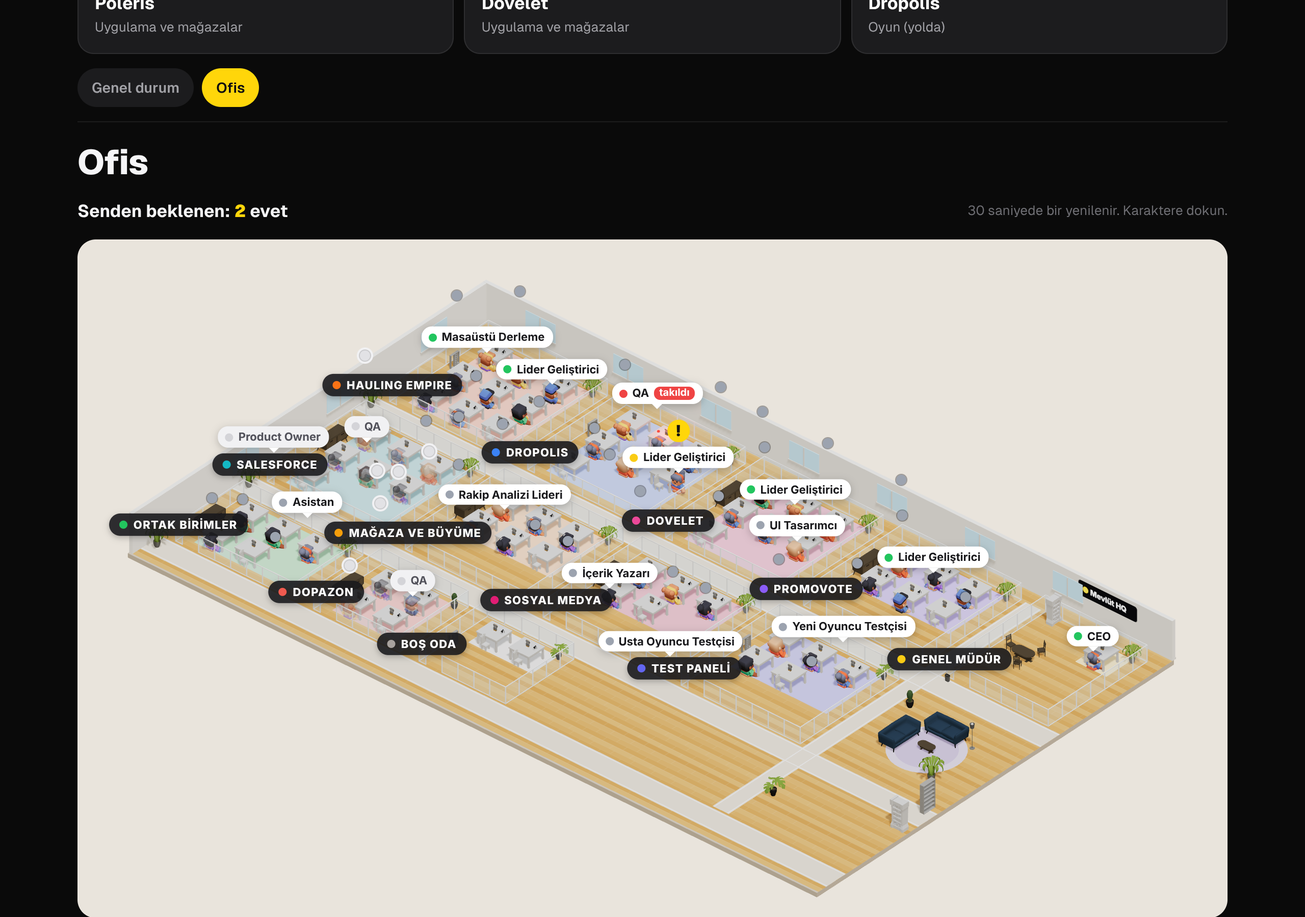
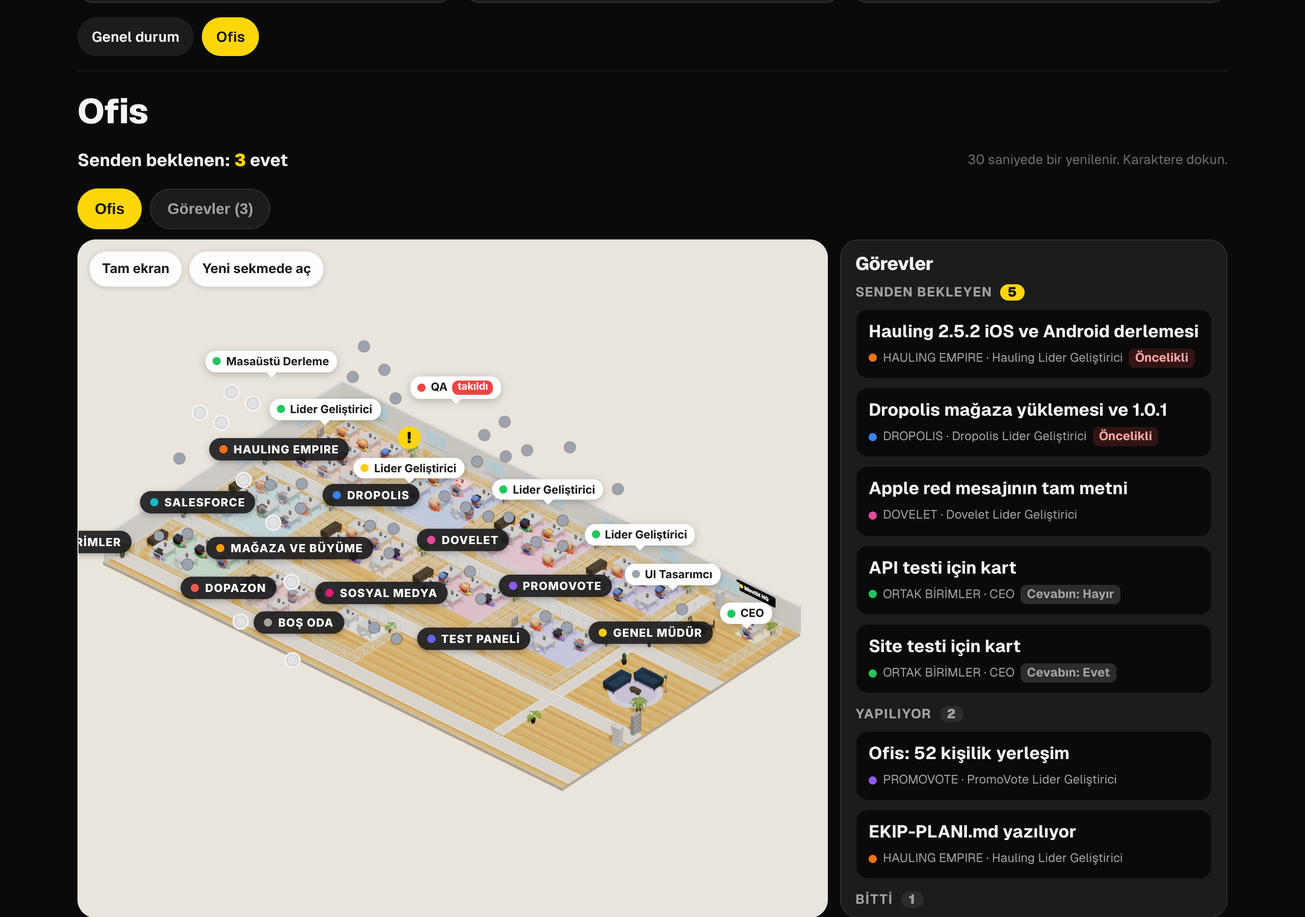
Admin Ofis: full screen button and the /admin/office/full page, drag to pan
Tam ekran on the stage (Fullscreen API with a cover-the-window fallback, Esc or Kapat to leave), Yeni
sekmede aç link to /admin/office/full (only the office and the task board side panel, whole window),
drag pans, wheel and pinch zoom toward the pointer, more names on big stages. Tests and a 1920x1080
screenshot. Not deployed.

Claude-Session: https://claude.ai/code/session_016Jsgeai3nmEVrWzNSNYGkb

diff --git a/web/landing/src/index.js b/web/landing/src/index.js
@@ -287,7 +287,7 @@ async function dropolisPage(env) {
     + sec("En sık olaylar (7 gün)") + evTable;
 }
 
-function adminPage(path, title, body) {
+function adminPage(path, title, body, opts = {}) {
   const group = ADMIN_GROUPS.find(([, , items]) => items.some(([h]) => h === path));
   const page = group?.[2].find(([h]) => h === path);
   const groupsHtml = ADMIN_GROUPS.map(([name, sub, items]) => {
@@ -331,8 +331,8 @@ td a{color:#b394ff}.dim{color:var(--dim)}.center{text-align:center}.role{padding
 .rv-reject label{display:grid;gap:6px;font-size:14px;color:var(--muted)}.rv-reject select,.rv-reject textarea{padding:10px 12px;border-radius:10px;border:1px solid var(--line);background:var(--surface-2);color:#fff;font:inherit}
 .rv-reject .rv-check{display:flex;align-items:center;gap:8px}@media (max-width:700px){.rv-grid{grid-template-columns:1fr}.rv-video{max-height:70dvh}}
 .empty{padding:28px;border:1px dashed var(--line);border-radius:16px;color:var(--muted);line-height:1.6}
-</style></head><body><main class="wrap admin">
-${nav}
+</style></head><body${opts.bare ? ' class="of-bare"' : ""}><main class="${opts.bare ? "of-fullpage" : "wrap admin"}">
+${opts.bare ? "" : nav}
 ${body}
 </main><script src="/v-ignore.js"></script><script src="/admin-table.js?v=2" defer></script></body></html>`;
   return new Response(html, { headers: { "Content-Type": "text/html; charset=utf-8", ...ADMIN_HEADERS } });
@@ -1169,7 +1169,7 @@ const nyTime = (iso) => {
   if (isNaN(d)) return "-";
   return new Intl.DateTimeFormat("tr-TR", { timeZone: "America/New_York", day: "numeric", month: "short", hour: "2-digit", minute: "2-digit" }).format(d) + " (New York)";
 };
-async function officePage(env) {
+async function officePage(env, full = false) {
   const r = await officeAgents(env);
   // With the task board, "Senden beklenen" counts the cards that wait for the owner's answer.
   const waiting = r.tasks ? r.tasks.filter((t) => t.status === "waiting_owner" && !t.owner_answer).length : r.agents.filter((a) => a.status === "waiting_owner" || a.needs_owner).length;
@@ -1213,6 +1213,19 @@ ${a.last_action ? `<p style="margin:0 0 6px">${esc(a.last_action)}</p>` : ""}${a
 .of-need{margin:0 0 6px;padding:8px 10px;border-radius:10px;background:rgba(255,214,10,.1);color:#ffe066}
 .chip-n{background:var(--surface-2);color:var(--muted)}
 .of-main{display:grid;gap:12px;grid-template-columns:minmax(0,1fr)}
+.of-tools{position:absolute;top:10px;left:10px;z-index:4;display:flex;gap:6px;flex-wrap:wrap}
+.of-tool{display:inline-flex;align-items:center;min-height:36px;padding:0 12px;border-radius:999px;border:1px solid rgba(0,0,0,.12);background:rgba(255,255,255,.92);color:#18181b;font:700 13px system-ui,sans-serif;text-decoration:none;cursor:pointer;box-shadow:0 1px 4px rgba(0,0,0,.15)}
+.of-tool:hover,.of-tool:focus-visible{background:#fff;outline:2px solid #ffd60a}.of-tool[hidden]{display:none}
+.of-stage.of-max{position:fixed!important;inset:0;z-index:60;height:100dvh!important;min-height:0;border-radius:0;border:0}
+.of-stage:fullscreen{height:100%!important;border-radius:0;border:0}
+body.of-bare{margin:0;overflow:hidden}.of-fullpage{padding:0;margin:0;max-width:none}
+.of-fullpage>.top,.of-fullpage>.of-tabs,.of-fullpage>.of-note,.of-fullpage>.of-note-msg,.of-fullpage>.of-legend,.of-fullpage>.of-list{display:none!important}
+.of-fullpage>.of-top{position:fixed;top:10px;left:50%;transform:translateX(-50%);z-index:5;margin:0;padding:6px 14px;border-radius:999px;background:rgba(16,16,20,.9);border:1px solid var(--line)}.of-fullpage>.of-top .dim{display:none}
+.of-main.full{position:fixed;inset:0;gap:0;grid-template-columns:minmax(0,1fr) 380px}
+.of-main.full.closed{grid-template-columns:minmax(0,1fr) 0}.of-main.full.closed .of-board{display:none}
+.of-main.full .of-stage{height:100dvh;max-height:none;border-radius:0;border:0}
+.of-main.full .of-board{max-height:100dvh;height:100dvh;border-radius:0;border-width:0 0 0 1px}
+@media (max-width:999px){.of-main.full{grid-template-columns:minmax(0,1fr)}.of-main.full .of-board{position:fixed;top:0;right:0;bottom:0;width:min(380px,100%);z-index:6}.of-main.full .of-stage{display:block!important}.of-main.full:not(.board) .of-board{display:block}.of-main.full.closed .of-board{display:none}}
 @media (min-width:1000px){.of-main{grid-template-columns:minmax(0,1fr) 380px}.of-tabs{display:none}}
 .of-tabs{display:flex;gap:8px;margin:0 0 10px}.of-tabs button{min-height:40px;padding:0 16px;border-radius:999px;border:1px solid var(--line);background:var(--surface);color:var(--muted);font-weight:700;font-size:15px;cursor:pointer}.of-tabs button[aria-selected="true"]{background:var(--lime);color:#111;border-color:transparent}
 @media (max-width:999px){.of-main.board .of-stage{display:none!important}.of-main:not(.board) .of-board{display:none}}
@@ -1244,8 +1257,10 @@ ${a.last_action ? `<p style="margin:0 0 6px">${esc(a.last_action)}</p>` : ""}${a
 <div class="top"><h1>Ofis</h1></div>
 <div class="of-top"><p class="of-ask" id="of-ask" aria-live="polite">Senden beklenen: <b>${waiting}</b> evet</p><p class="dim" style="margin:0;font-size:13px">30 saniyede bir yenilenir. Karaktere dokun.</p></div>
 <div class="of-tabs" role="tablist" aria-label="Görünüm"><button type="button" role="tab" id="of-tab-office" aria-selected="true" aria-controls="of-stage">Ofis</button><button type="button" role="tab" id="of-tab-board" aria-selected="false" aria-controls="of-board">Görevler <span id="of-tab-count"></span></button></div>
-<div class="of-main" id="of-main">
-<div class="of-stage" id="of-stage" aria-label="Claude oturumları ofisi, 3D görünüm"><div class="of-tags" id="of-tags" aria-hidden="true"></div><div class="of-panel" id="of-panel" role="dialog" aria-modal="false" aria-labelledby="of-p-title"><button type="button" class="of-close" id="of-close" aria-label="Kapat">×</button><h2 id="of-p-title"></h2><dl id="of-p-body"></dl></div></div>
+<div class="of-main${full ? " full" : ""}" id="of-main">
+<div class="of-stage" id="of-stage" aria-label="Claude oturumları ofisi, 3D görünüm"><div class="of-tags" id="of-tags" aria-hidden="true"></div><div class="of-tools">${full
+    ? '<a class="of-tool" href="/admin/office">‹ Panele dön</a><button type="button" class="of-tool" id="of-board-toggle" aria-controls="of-board" aria-expanded="true">Görevler</button>'
+    : '<button type="button" class="of-tool" id="of-full-btn">Tam ekran</button><a class="of-tool" href="/admin/office/full" target="_blank" rel="noopener">Yeni sekmede aç</a>'}<button type="button" class="of-tool of-tool-x" id="of-full-x" hidden>Kapat ×</button></div><div class="of-panel" id="of-panel" role="dialog" aria-modal="false" aria-labelledby="of-p-title"><button type="button" class="of-close" id="of-close" aria-label="Kapat">×</button><h2 id="of-p-title"></h2><dl id="of-p-body"></dl></div></div>
 <section class="of-board" id="of-board" aria-label="Görevler"><div class="of-b-head"><h2>Görevler</h2><p class="of-b-filter" id="of-b-filter" hidden></p></div><div id="of-b-cols"><p class="dim">Görev tablosu henüz yok.</p></div>
 <div class="of-drawer" id="of-drawer" role="dialog" aria-modal="false" aria-labelledby="of-d-title" hidden><button type="button" class="of-d-back" id="of-d-back">‹ Görevler</button><h3 id="of-d-title"></h3><dl id="of-d-meta"></dl><p class="of-d-detail" id="of-d-detail"></p><div id="of-d-answer"></div></div></section>
 </div>
@@ -1549,6 +1564,8 @@ ${tilesHtml([["Paylaşılan", sum.posted?.n || 0], ["Sırada", sum.queued?.n || 
   }
   if (path === "/admin/office/note") return request.method === "POST" ? officeNote(request, env, url) : new Response("Method not allowed", { status: 405, headers: ADMIN_HEADERS });
   if (path === "/admin/office") return adminPage(path, "Ofis", await officePage(env));
+  // Big view (founder 2026-11-13): only the 3D office and the task board, filling the whole window.
+  if (path === "/admin/office/full") return adminPage(path, "Ofis tam ekran", await officePage(env, true), { bare: true });
   if (path === "/admin/office.json") {
     const r = await officeAgents(env);
     return new Response(JSON.stringify(r), { headers: { "Content-Type": "application/json; charset=utf-8", ...ADMIN_HEADERS } });

diff --git a/web/landing/public/admin-office.js b/web/landing/public/admin-office.js
@@ -634,7 +634,9 @@ function trySpot(it, taken) {
     : [[0, 0], [0, -sy], [sx, 0], [-sx, 0], [sx, -sy], [-sx, -sy], [0, -2 * sy], [0, sy], [sx, -2 * sy], [-sx, -2 * sy], [0, -3 * sy]];
   // Idle and offline names only take a spot right next to the person; otherwise they become a dot, so no name
   // floats far from its owner.
-  if (kind === "name" && elm.classList.contains("quiet") && !elm.classList.contains("mini")) tries.splice(4);
+  // On a big stage (full screen, the full page) idle and offline people may take any free spot, so names show for
+  // everyone when there is room.
+  if (kind === "name" && elm.classList.contains("quiet") && !elm.classList.contains("mini") && stage.clientWidth < 1400) tries.splice(4);
   if (kind === "name" && elm.classList.contains("mini")) {
     // A status dot may move a little further: a ring of spots around the person.
     for (let k = 1, kMax = stage.clientWidth < 600 ? 3 : 7; k <= kMax; k++) for (let i = 0; i < 12; i++) { const an = (i / 12) * Math.PI * 2 - Math.PI / 2; tries.push([Math.cos(an) * k * (w + GAP + 1), Math.sin(an) * k * (h + GAP + 1)]); }
@@ -944,6 +946,10 @@ async function start() {
   controls.maxAzimuthAngle = THREE.MathUtils.degToRad(75);
   controls.minZoom = 0.8; controls.maxZoom = 4;
   controls.screenSpacePanning = true;
+  // Map style (founder 2026-11-13): drag pans, the wheel and a pinch zoom toward the pointer, right drag turns.
+  controls.mouseButtons = { LEFT: THREE.MOUSE.PAN, MIDDLE: THREE.MOUSE.DOLLY, RIGHT: THREE.MOUSE.ROTATE };
+  controls.touches = { ONE: THREE.TOUCH.PAN, TWO: THREE.TOUCH.DOLLY_PAN };
+  controls.zoomToCursor = true;
   new ResizeObserver(resize).observe(stage);
   resize();
   renderer.domElement.addEventListener("pointerdown", (e) => { down = [e.clientX, e.clientY]; });
@@ -966,6 +972,44 @@ if (renderer && stage) {
     stage.classList.remove("on");
     renderer.domElement.remove();
     renderer = null;
+  });
+}
+
+// ---------- big view: full screen button and the full page (founder 2026-11-13) ----------
+// "Tam ekran" uses the Fullscreen API on the stage; where that is not allowed (iOS Safari) the stage covers the
+// window instead. Esc or "Kapat" leaves both. On /admin/office/full the board is a side panel that opens and closes.
+const fullBtn = document.getElementById("of-full-btn");
+const fullX = document.getElementById("of-full-x");
+const isMax = () => document.fullscreenElement === stage || stage?.classList.contains("of-max");
+function syncFull() {
+  const on = isMax();
+  if (fullX) fullX.hidden = !on;
+  if (fullBtn) fullBtn.hidden = on;
+  document.documentElement.style.overflow = stage?.classList.contains("of-max") ? "hidden" : "";
+}
+async function enterFull() {
+  if (!stage) return;
+  try {
+    if (stage.requestFullscreen && document.fullscreenEnabled !== false) await stage.requestFullscreen();
+    else throw new Error("no fullscreen");
+  } catch { stage.classList.add("of-max"); }
+  syncFull();
+}
+async function exitFull() {
+  if (document.fullscreenElement) { try { await document.exitFullscreen(); } catch { /* already out */ } }
+  stage?.classList.remove("of-max");
+  syncFull();
+}
+fullBtn?.addEventListener("click", enterFull);
+fullX?.addEventListener("click", exitFull);
+document.addEventListener("fullscreenchange", syncFull);
+document.addEventListener("keydown", (e) => { if (e.key === "Escape" && stage?.classList.contains("of-max")) exitFull(); });
+const boardToggle = document.getElementById("of-board-toggle");
+if (boardToggle && mainEl) {
+  if (innerWidth < 1000) { mainEl.classList.add("closed"); boardToggle.setAttribute("aria-expanded", "false"); }
+  boardToggle.addEventListener("click", () => {
+    const closed = mainEl.classList.toggle("closed");
+    boardToggle.setAttribute("aria-expanded", String(!closed));
   });
 }
 

diff --git a/CLAUDE.md b/CLAUDE.md
@@ -10,7 +10,7 @@ Status: validation stage. **promovote.com landing page is LIVE** (waitlist).
 ## Live infrastructure (Cloudflare)
 * Landing page: `web/landing/` (Cloudflare Worker + static assets). Deploy: `cd web/landing && npx wrangler deploy`. Custom domains promovote.com and www (www 301 to apex).
 * Waitlist: D1 `promovote-waitlist`, table `waitlist` (email, role, link, country, created_at). Count: `npx wrangler d1 execute promovote-waitlist --remote --command "SELECT role, COUNT(*) FROM waitlist GROUP BY role"`.
-* Admin: `promovote.com/admin` (HTTP Basic auth, password = Worker secret `ADMIN_PASSWORD` set by the founder in the dashboard; Claude does not know it). Navigation (founder request 2026-10-15): four product buttons (Durum, PromoVote, Hauling Empire, Poleris), then that product's pages. `/admin` is the status page (green / yellow / red per product, lists feed sections the product does not send yet). Pages (Turkish, founder request 2026-10-12): `/admin/bekleme` waitlist + CSV (`/admin/export.csv`), `/admin/visitors` (14 days), `/admin/x` (X posts and stats, read only from `promovote-db` via binding `APPDB`), `/admin/app-store` and `/admin/google-play` (Hauling Empire stats from its Supabase function `store-stats`, key in Worker secret `HE_STATS_KEY`, 1 h cache, plus a 30 day sales card), `/admin/hauling-empire/oyun` (in-game feed `store-stats?feed=ops`: online now, days, sales Apple and Google apart, products, subscriptions, online, funnel, health with color rules; 5 min cache). 7 / 30 / 90 day filter via `?range=`. Store pages have a product switcher `?p=haulingempire|poleris|promovote`; Poleris and PromoVote read `metrics_daily` (migration 0020), filled every 12 h by `services/api/src/stats.js` (Apple daily sales reports with key `ASC_STATS_*`, vendor 94642380; Google Play report files from bucket `PLAY_REPORTS_BUCKET` with `GOOGLE_PLAY_SA_JSON`) for all founder apps (PromoVote, Poleris, Hauling Empire, Dovelet, formerly Lovelet, internal id `lovelet`: Apple 6824002542, Play com.mhokutan.coupleapp, added 2026-10-17; Dovelet also gets its own ops feed later, key `LOVELET_STATS_KEY` made on the founder's computer, prompt `docs/prompts/lovelet-promovote.md`). Poleris stats endpoint (its own Supabase function `gcbcaunmxznaixwnnfux.supabase.co/functions/v1/store-stats`, same contract) uses Worker secret `POLERIS_STATS_KEY`; page `/admin/poleris/uygulama`, app tiles on its store pages; prompts in `docs/prompts/`. Plan for all products in `docs/09-metrics-hub.md`. Ad revenue page `/admin/unity-ads` (Hauling Empire group, founder request 2026-10-17; nav label "Reklam geliri"): LevelPlay Reporting API first when Worker secrets `LEVELPLAY_SECRET_KEY` and `LEVELPLAY_REFRESH_TOKEN` exist (same numbers as the LevelPlay site, all networks, 15 min cache, founder request 2026-10-22), else Unity Monetization Stats API (CSV, org level, split by game, platform, country, 1 h cache), Worker secrets `UNITY_ADS_KEY` and `UNITY_ORG_ID` entered by the founder. Store reviews page `/admin/yorumlar?p=<product>` (founder request 2026-11-09, "Yorumlar" in each product group, plus a status card): table `store_reviews` in `promovote-db` (migration 0023), filled by `services/api/src/reviews.js` on the `0 * * * *` job, one app per run, each about every 6 h; Apple from the App Store Connect API customerReviews with the `ASC_STATS_*` key (all countries, with your replies; the public RSS feed answers 403 to Workers and is only a fallback), Google from the monthly `reviews/` CSV in the Play reports bucket; reviewer names and devices are never stored; read only, replies stay in the store consoles. Office page `/admin/office` (founder request 2026-11-12, under Durum): the founder's Claude sessions in a roofless floor plan (version 2, 2026-11-12: one room per unit with half height walls, door gap and name board, project colors Hauling orange, Dropolis blue, PromoVote purple, Dovelet pink, shared units green, light wood floor; CC0 models only, Quaternius furniture and Kenney Mini Characters in `public/office/models`, sources in `web/landing/CREDITS.md`, under 5 MB; working types at the desk, idle sits back, waiting_owner stands with a yellow "!", blocked red light and "takıldı", offline room dark; a new office_agents row opens a new room; three.js 0.160.0 plus GLTFLoader, SkeletonUtils, OrbitControls vendored in `public/vendor`, script `public/admin-office.js`, plain list fallback, 30 s refresh; admin pages allow blob: images for the model textures). Data: its own D1 database `office-db` (founder decision 2026-11-12, nothing of the office in promovote-db), tables `office_agents` and `office_notes` (`services/api/office-migrations/0001_office.sql`); created, migrated and live since 2026-11-12, id `3419c845-6e07-4dca-97de-dde5446bf70f`, binding `OFFICE_DB` on promovote-api. Written only by the CEO session directly with the D1 tool (no write endpoint), read through `GET /v1/admin/office` on the API (SELECT only, `ADMIN_API_TOKEN`). Version 2 of the 3D view is live since 2026-11-12 (promovote-landing 2ea316c2). Version 3 (founder request 2026-11-13, live since 2026-11-13: promovote-api ac7e4a1c, promovote-landing fa6e829a): isometric open plan with white outer walls and windows, glass rooms per department (HAULING EMPIRE orange, DROPOLIS blue, PROMOVOTE purple, DOVELET pink, ORTAK BİRİMLER green, GENEL MÜDÜR next to the lounge, SALESFORCE teal and DOPAZON coral (2026-11-13), DİĞER for unknown ids, one empty room for later). Version 3.1 (52 person team, live since 2026-11-13: promovote-api 92dbaca4, promovote-landing 81b228ec): departments by id prefix and rooms sized by member count (mapping in `docs/office-ceo.md`; adds MAĞAZA VE BÜYÜME amber, SOSYAL MEDYA magenta, TEST PANELİ indigo), model tag from the brackets in role, bubbles shrink to status dots when space is short, API returns up to 200 rows, name bubbles with status dots, bottom bar "CEO'ya not bırak" (the only write: office_notes status new, `POST /admin/office/note` same origin, then `POST /v1/admin/office/notes`), mail walk animation from table `office_mail` (migration `office-migrations/0002_office_mail.sql`, applied 2026-11-13; last 10 minutes; shown ids kept in the browser). Task board "Görevler" (founder request 2026-11-13, NOT deployed): columns Senden bekleyen / Yapılıyor / Bitti / Takıldı from table `office_tasks` (migration `office-migrations/0003_office_tasks.sql`, not applied), cards by priority then age, click a card for a drawer, waiting_owner cards get Evet/Hayır plus a note (the only new write: `POST /admin/office/task/:id/answer` same origin, then `POST /v1/admin/office/tasks/:id/answer`, sets only owner_answer/owner_note/answered_at on a waiting card), a tab on phone, a click on a person filters the board. CEO writes cards with the D1 tool. Screenshots in `docs/office-screenshots/`. CEO note in `docs/office-ceo.md`, tests `node --test web/landing/tests/office.test.mjs`. `keep_vars` is on; dashboard values must be Secrets.
+* Admin: `promovote.com/admin` (HTTP Basic auth, password = Worker secret `ADMIN_PASSWORD` set by the founder in the dashboard; Claude does not know it). Navigation (founder request 2026-10-15): four product buttons (Durum, PromoVote, Hauling Empire, Poleris), then that product's pages. `/admin` is the status page (green / yellow / red per product, lists feed sections the product does not send yet). Pages (Turkish, founder request 2026-10-12): `/admin/bekleme` waitlist + CSV (`/admin/export.csv`), `/admin/visitors` (14 days), `/admin/x` (X posts and stats, read only from `promovote-db` via binding `APPDB`), `/admin/app-store` and `/admin/google-play` (Hauling Empire stats from its Supabase function `store-stats`, key in Worker secret `HE_STATS_KEY`, 1 h cache, plus a 30 day sales card), `/admin/hauling-empire/oyun` (in-game feed `store-stats?feed=ops`: online now, days, sales Apple and Google apart, products, subscriptions, online, funnel, health with color rules; 5 min cache). 7 / 30 / 90 day filter via `?range=`. Store pages have a product switcher `?p=haulingempire|poleris|promovote`; Poleris and PromoVote read `metrics_daily` (migration 0020), filled every 12 h by `services/api/src/stats.js` (Apple daily sales reports with key `ASC_STATS_*`, vendor 94642380; Google Play report files from bucket `PLAY_REPORTS_BUCKET` with `GOOGLE_PLAY_SA_JSON`) for all founder apps (PromoVote, Poleris, Hauling Empire, Dovelet, formerly Lovelet, internal id `lovelet`: Apple 6824002542, Play com.mhokutan.coupleapp, added 2026-10-17; Dovelet also gets its own ops feed later, key `LOVELET_STATS_KEY` made on the founder's computer, prompt `docs/prompts/lovelet-promovote.md`). Poleris stats endpoint (its own Supabase function `gcbcaunmxznaixwnnfux.supabase.co/functions/v1/store-stats`, same contract) uses Worker secret `POLERIS_STATS_KEY`; page `/admin/poleris/uygulama`, app tiles on its store pages; prompts in `docs/prompts/`. Plan for all products in `docs/09-metrics-hub.md`. Ad revenue page `/admin/unity-ads` (Hauling Empire group, founder request 2026-10-17; nav label "Reklam geliri"): LevelPlay Reporting API first when Worker secrets `LEVELPLAY_SECRET_KEY` and `LEVELPLAY_REFRESH_TOKEN` exist (same numbers as the LevelPlay site, all networks, 15 min cache, founder request 2026-10-22), else Unity Monetization Stats API (CSV, org level, split by game, platform, country, 1 h cache), Worker secrets `UNITY_ADS_KEY` and `UNITY_ORG_ID` entered by the founder. Store reviews page `/admin/yorumlar?p=<product>` (founder request 2026-11-09, "Yorumlar" in each product group, plus a status card): table `store_reviews` in `promovote-db` (migration 0023), filled by `services/api/src/reviews.js` on the `0 * * * *` job, one app per run, each about every 6 h; Apple from the App Store Connect API customerReviews with the `ASC_STATS_*` key (all countries, with your replies; the public RSS feed answers 403 to Workers and is only a fallback), Google from the monthly `reviews/` CSV in the Play reports bucket; reviewer names and devices are never stored; read only, replies stay in the store consoles. Office page `/admin/office` (founder request 2026-11-12, under Durum): the founder's Claude sessions in a roofless floor plan (version 2, 2026-11-12: one room per unit with half height walls, door gap and name board, project colors Hauling orange, Dropolis blue, PromoVote purple, Dovelet pink, shared units green, light wood floor; CC0 models only, Quaternius furniture and Kenney Mini Characters in `public/office/models`, sources in `web/landing/CREDITS.md`, under 5 MB; working types at the desk, idle sits back, waiting_owner stands with a yellow "!", blocked red light and "takıldı", offline room dark; a new office_agents row opens a new room; three.js 0.160.0 plus GLTFLoader, SkeletonUtils, OrbitControls vendored in `public/vendor`, script `public/admin-office.js`, plain list fallback, 30 s refresh; admin pages allow blob: images for the model textures). Data: its own D1 database `office-db` (founder decision 2026-11-12, nothing of the office in promovote-db), tables `office_agents` and `office_notes` (`services/api/office-migrations/0001_office.sql`); created, migrated and live since 2026-11-12, id `3419c845-6e07-4dca-97de-dde5446bf70f`, binding `OFFICE_DB` on promovote-api. Written only by the CEO session directly with the D1 tool (no write endpoint), read through `GET /v1/admin/office` on the API (SELECT only, `ADMIN_API_TOKEN`). Version 2 of the 3D view is live since 2026-11-12 (promovote-landing 2ea316c2). Version 3 (founder request 2026-11-13, live since 2026-11-13: promovote-api ac7e4a1c, promovote-landing fa6e829a): isometric open plan with white outer walls and windows, glass rooms per department (HAULING EMPIRE orange, DROPOLIS blue, PROMOVOTE purple, DOVELET pink, ORTAK BİRİMLER green, GENEL MÜDÜR next to the lounge, SALESFORCE teal and DOPAZON coral (2026-11-13), DİĞER for unknown ids, one empty room for later). Version 3.1 (52 person team, live since 2026-11-13: promovote-api 92dbaca4, promovote-landing 81b228ec): departments by id prefix and rooms sized by member count (mapping in `docs/office-ceo.md`; adds MAĞAZA VE BÜYÜME amber, SOSYAL MEDYA magenta, TEST PANELİ indigo), model tag from the brackets in role, bubbles shrink to status dots when space is short, API returns up to 200 rows, name bubbles with status dots, bottom bar "CEO'ya not bırak" (the only write: office_notes status new, `POST /admin/office/note` same origin, then `POST /v1/admin/office/notes`), mail walk animation from table `office_mail` (migration `office-migrations/0002_office_mail.sql`, applied 2026-11-13; last 10 minutes; shown ids kept in the browser). Task board "Görevler" (founder request 2026-11-13, NOT deployed): columns Senden bekleyen / Yapılıyor / Bitti / Takıldı from table `office_tasks` (migration `office-migrations/0003_office_tasks.sql`, not applied), cards by priority then age, click a card for a drawer, waiting_owner cards get Evet/Hayır plus a note (the only new write: `POST /admin/office/task/:id/answer` same origin, then `POST /v1/admin/office/tasks/:id/answer`, sets only owner_answer/owner_note/answered_at on a waiting card), a tab on phone, a click on a person filters the board. CEO writes cards with the D1 tool. Big view (founder request 2026-11-13, NOT deployed): "Tam ekran" button on the stage (Fullscreen API, falls back to covering the window on iOS Safari; Esc or "Kapat" leaves) and "Yeni sekmede aç" to `/admin/office/full` (same admin login, only the 3D office and the board as a side panel that opens and closes, whole window); drag pans, wheel and pinch zoom toward the pointer, right drag turns; on a stage 1400 px or wider idle and offline people get names when there is room. Screenshots in `docs/office-screenshots/`. CEO note in `docs/office-ceo.md`, tests `node --test web/landing/tests/office.test.mjs`. `keep_vars` is on; dashboard values must be Secrets.
 * X posts (queue `social_posts` in `promovote-db`, hourly cron, videos as `media_url` on promovote.com): X pay-per-use, a post with any URL costs $0.20, a plain post $0.015 (2026-10). Founder rule 2026-10-19, tightened 2026-10-22: no post carries a link (say "link in our profile" or "search ... on the App Store / Google Play"); video instead of link. 10 plain posts a day at 11/12/13/14/16/17/18/20/21/23 UTC (founder decision 2026-11-02, raised from 4 to use the X credit before it expires) plus at least 2 video posts a week, made by Claude with HyperFrames (`videos/promovote-x-launch`, `videos/promovote-x-duel` as templates, own synthesized music in `scripts/make_music.py`). Only exception: the iPhone launch day post. Videos must be H.264 MP4 in `web/landing/public/media/x/`.
 * Visit counter (cookieless, own): the Worker injects `public/v.js` into every HTML page; it posts to `/api/v`, rows go to D1 `promovote-waitlist` table `visits` (visitor = daily salted hash, no IP stored; salt in `visit_salt`). Bots, headless browsers and the admin's browser (`v-ignore.js` on /admin) are not counted.
 * Bot protection: Turnstile widget `promovote-waitlist`; secret stored as Worker secret `TURNSTILE_SECRET` (never commit it).
